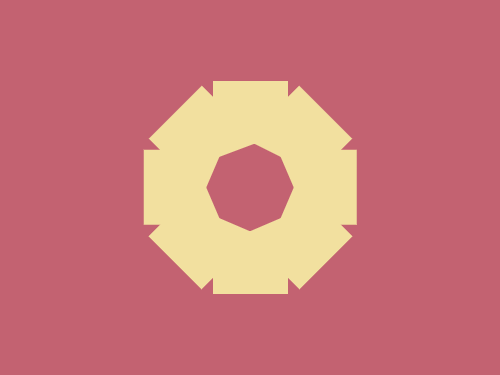
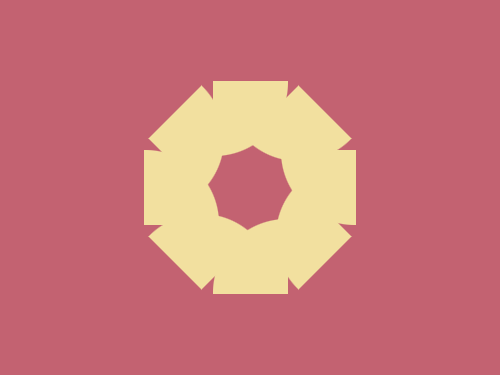
Score: 611.65, Characters: 371 (100.00% match) - CSSHub

diff --git a/Daily Targets/2026-11-16/README.md b/Daily Targets/2026-11-16/README.md
@@ -22,36 +22,5 @@ Challenge: <https://cssbattle.dev/play/jnMuDO3lQ6zvVd2hlovm>
 ## Code
 
 ```html
-<p a><p a b><p a c><p a d><p e>
-<style>
-  *{
-    margin:0;
-    position:fixed;
-    background:#C36271;
-  }
-  [a]{
-    width:60;
-    height:170;
-    background:#F2E09F;
-    margin:65 170;
-  }
-  [b]{
-    rotate:90deg;
-    margin:65 170;
-  }
-  [c]{
-    rotate:45deg;
-    margin:65 170;
-  }
-  [d]{
-    rotate:-45deg;
-    margin:65 170;
-  }
-  [e]{
-    margin:115 165;
-    width:70;
-    height:70;
-    clip-path:
-  polygon(55% 0,85% 15%,100% 50%,85% 85%,50% 100%,15% 85%,0 50%,15% 15%)}
-</style>
+<p><p a><p b><p c><p d><p e><p f><p g><style>*{background:#C36271}p{width:60;height:60;background:#F2E09F;border-radius:0 0 5pc;margin:65 162}[a]{rotate:45deg;margin:-109 201}[b]{rotate:90deg;margin:88 217}[c]{rotate:135deg;margin:-109 201}[d]{rotate:180deg;margin:65 162}[e]{rotate:225deg;margin:-141 123}[f]{rotate:270deg;margin:42 107}[g]{rotate:315deg;margin:-141 123
 ```
